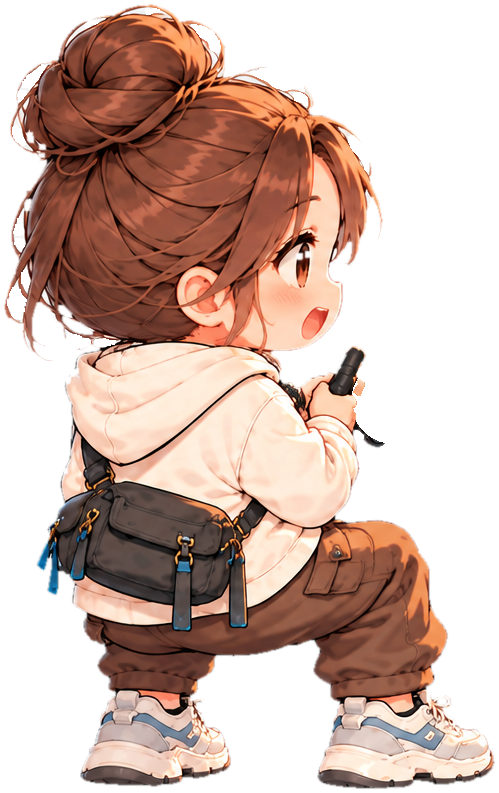
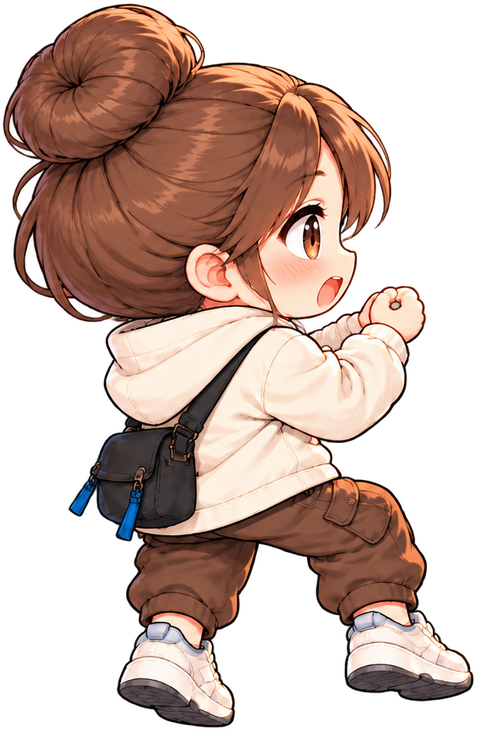
시험: 새 앉기·입질 포즈(빈 주먹)와 의자 단계별 사진, 맛 돌아오는 규칙 B안
- fish-sit, fish-bite를 새 투명 시트 그림으로 바꿨다. 손에 대가 없어 게임이 밑동과 릴을 쥐여 준다.
  엉덩이 아랫선을 seat로 잡아 다리가 바닥에 닿지 않아도 의자에 앉게 했다
- 체험 판 chair1~chair10과 사진 열 장(의자 1·3·5·7·10단계, 기다리기·입질)
- 맛 규칙: 짠맛은 내 손으로 낚은 물고기, 다른 맛은 누군가와 함께 먹을 때 돌아온다 (1장 끝 대사, STORY.md)

Claude-Session: https://claude.ai/code/session_01Q4t6Q7pbCP7YWATBfPpGQ7

diff --git a/godot/scripts/App/GameState.cs b/godot/scripts/App/GameState.cs
@@ -122,7 +122,7 @@ namespace Hanjeopsi.App
 
         /// <summary>
         /// 사진과 화면 확인용 체험 판 (웹 BootScene setupDemo). 4일차, 소지금 86,000원, 빚 264만 원, 쿨러 6마리.
-        /// kind: lunch 면 점심, evening 이면 저녁, night 면 밤, summary 면 새벽에 어제 요약이 뜬다
+        /// kind: lunch 면 점심, evening 이면 저녁, night 면 밤, summary 면 새벽에 어제 요약이 뜬다. gear 는 장비를 갖춘 판, chair1~chair10 은 그 의자만 갖춘 판
         /// </summary>
         public void SetupDemo(string kind)
         {
@@ -156,6 +156,10 @@ namespace Hanjeopsi.App
                 s.Kit.Own["float"] = 4;
                 s.Kit.Own["chair"] = 4;
             }
+            // chair1 ~ chair10: 그 단계 의자만 갖춘 판 (앉은 포즈와 의자가 맞는지 사진으로 본다)
+            int chair;
+            if (kind.StartsWith("chair") && int.TryParse(kind.Substring(5), out chair) && s.Kit != null)
+                s.Kit.Own["chair"] = chair;
             if (kind == "summary") s.PendingSummary = new DaySummary { Day = 3, Earned = 124_300, Spoiled = 1, ExpiredRequests = 0 };
             Game.Persist();
         }

diff --git a/docs/STORY.md b/docs/STORY.md
@@ -5,6 +5,8 @@
 한 줄 요약: 맛을 잃은 셰프가 아버지가 남긴 일지를 따라 전국을 낚시하며 자기 맛을 되찾는 이야기.
 낚을수록 맛을 알게 되고, 맛을 알수록 장사를 잘하게 되는 구조라서 스토리와 게임 시스템이 따로 놀지 않는다.
 
+**맛이 돌아오는 규칙** (2026-10-29 사용자 결정): 짠맛은 내 손으로 낚은 물고기에서 돌아왔다. 다른 맛은 그 물고기를 **누군가와 함께 먹을 때** 하나씩 돌아온다. 아버지 말처럼 고기는 제일 맛있게 먹어주는 사람 거라서다. 여울은 처음엔 "내 손으로 낚은 것"만 조건인 줄 알다가, 1장 끝에 할머니와 마주 앉아 먹으며 알게 된다. 게임에서는 낚은 어종이 늘수록(트럭에서 더 많은 사람에게 먹일수록) 미각이 오른다. 트루 엔딩에서 모든 맛이 돌아오는 것도 아버지와 할머니, 셋이 함께 먹는 자리다.
+
 ---
 
 ## 1. 주인공

diff --git a/docs/GAME_DESIGN.md b/docs/GAME_DESIGN.md
@@ -25,6 +25,7 @@
 ## 2. 미각 회복 (게임의 심장)
 
 맛을 모르면 손님이 왜 만족했는지도 알 수 없다. 초반엔 감으로 장사하고 **많이 낚을수록 장사를 잘하게 된다.**
+이야기로는 "내 손으로 낚은 물고기를 누군가와 함께 먹을 때" 맛이 돌아온다(`STORY.md` 맨 위). 아래 어종 수 조건은 그대로다.
 
 | 단계 | 전체 설계 조건 | 1장 MVP 조건 | 효과 |
 |---|---|---|---|
